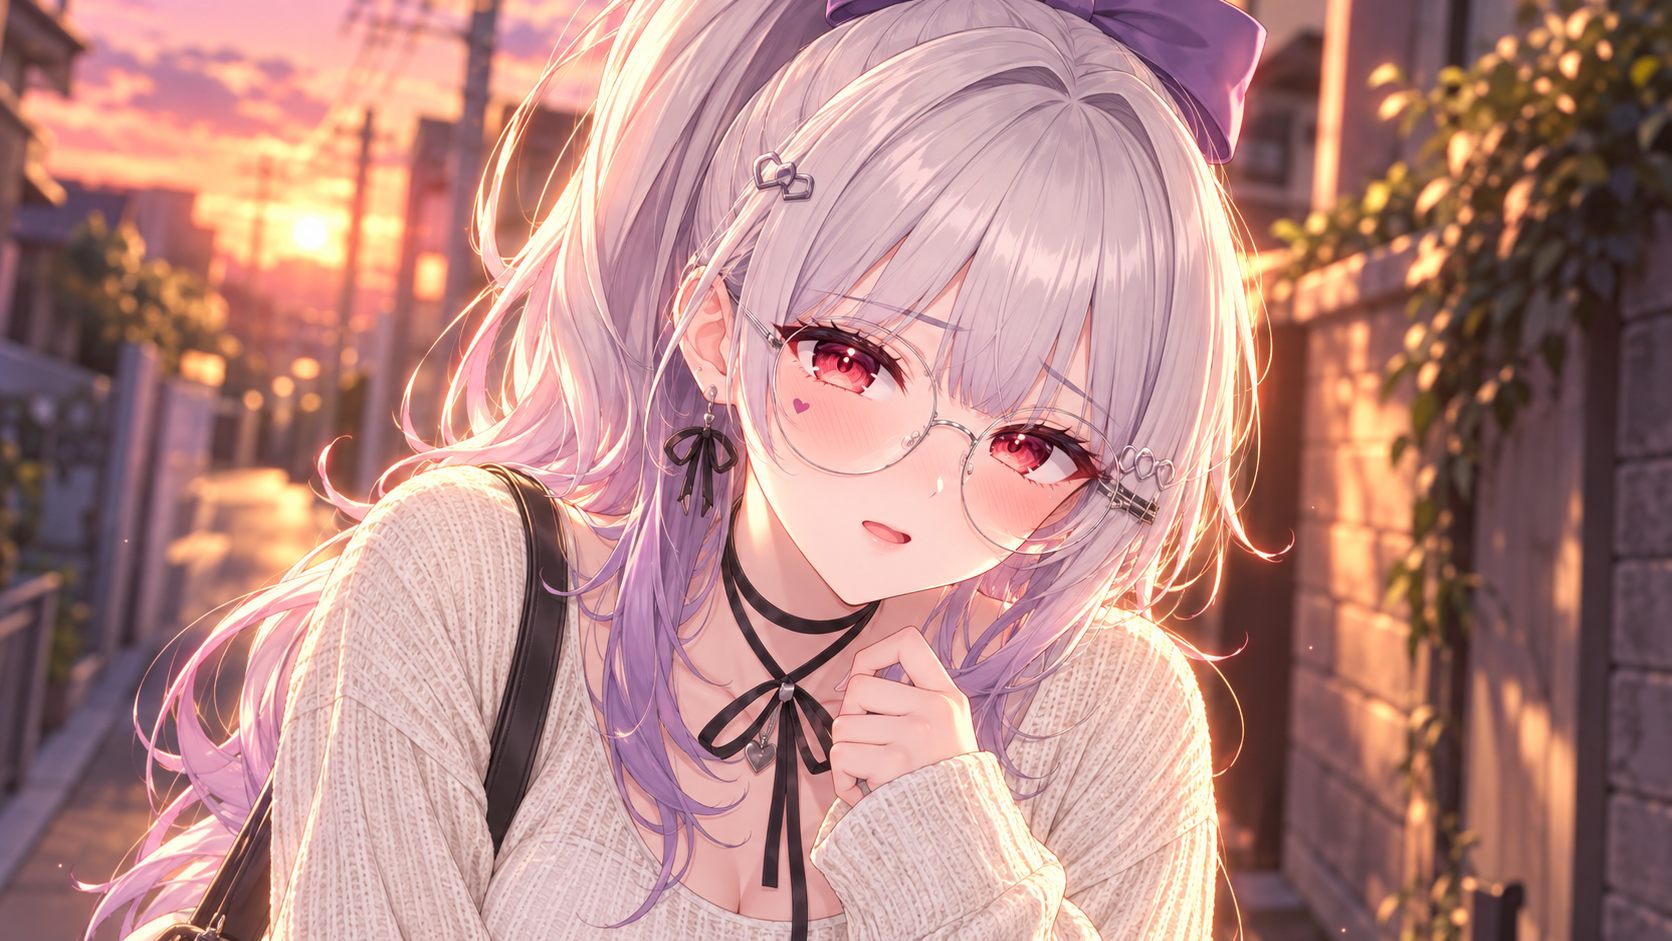
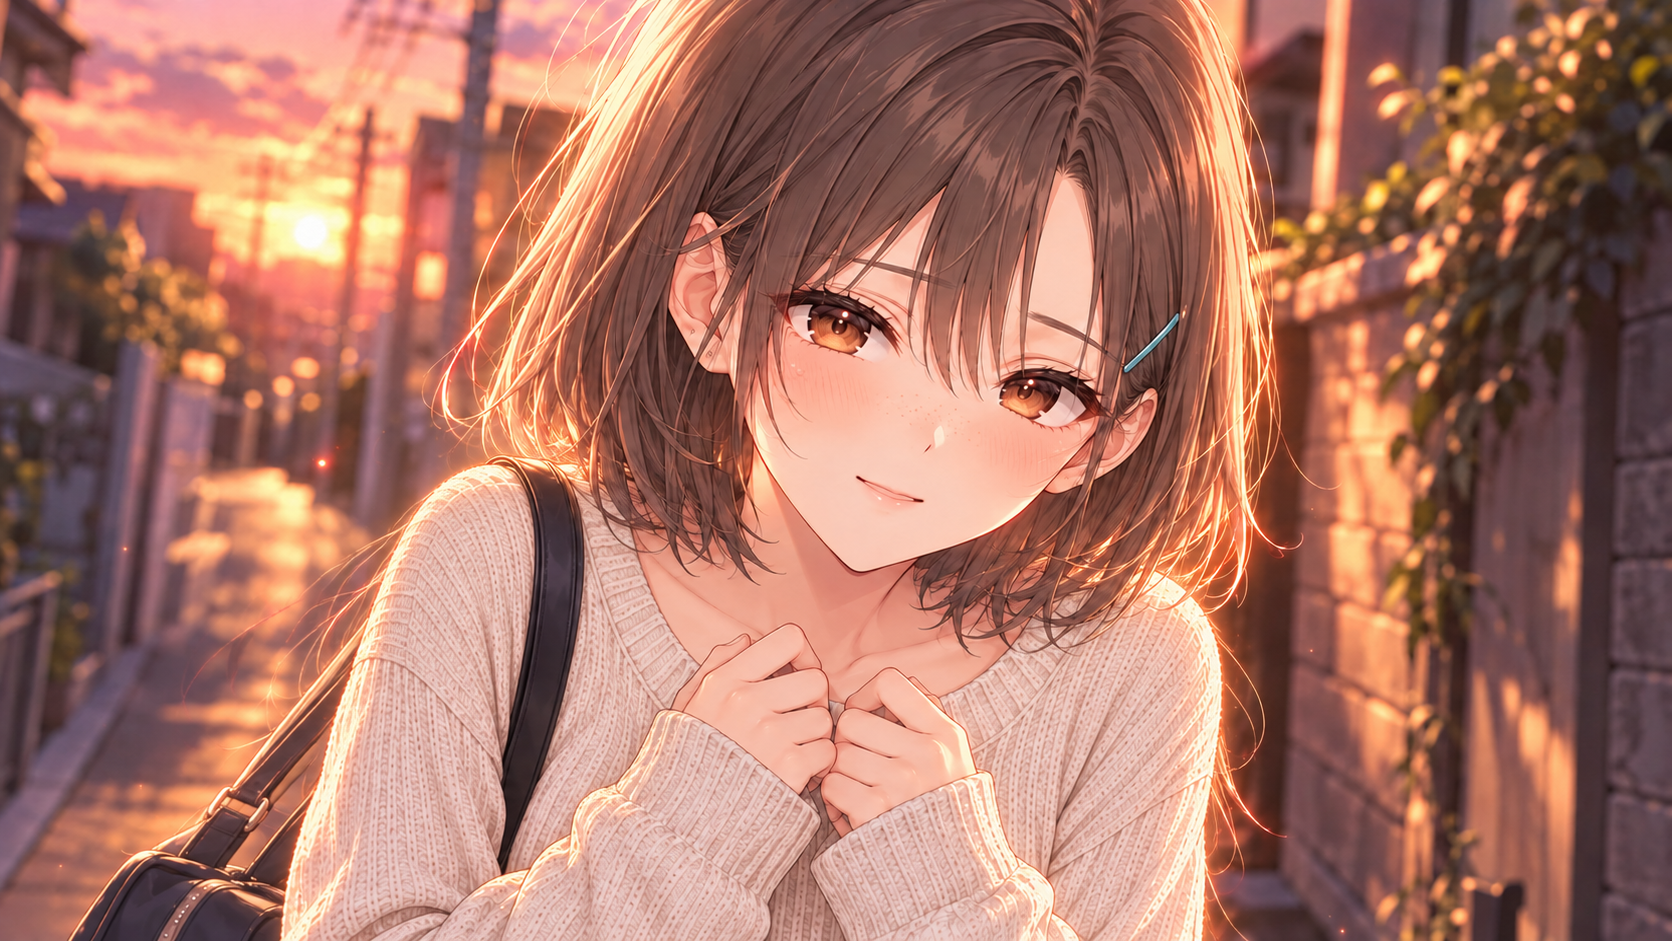
CH13 꾸민 의상 CG 교체

diff --git a/docs/illustration-replacement-prompts.md b/docs/illustration-replacement-prompts.md
@@ -246,7 +246,7 @@ CG는 공통 CG 블록과 파일별 장면 프롬프트를 이어 붙인다. 무
 | [cg-13-1.png](../assets/cg/cg-13-1.png) · CH12 우연한 만남, 기본 의상 | 원본의 구도와 자세를 유지한다. 허리 위로 보이는 온이유를 왼쪽 절반에 두고, 몸을 오른쪽으로 살짝 돌린 채 밝은 표정으로 화면을 바라본다. 가방끈을 어깨에 걸고 양손으로 중앙 오른쪽의 큰 잡지를 비스듬히 들어 보여주며, 한쪽 검지는 표지를 가리킨다. 머리 옆의 작은 강조선을 살린다. 왼쪽 배경은 흐린 서가, 오른쪽은 게임 잡지와 진열 케이스가 빽빽한 매대로 구성한다. 새 캐릭터 외형과 흰 티셔츠·데님 하의를 적용하고, 표지와 상품에는 글자·로고·인물 초상 없이 가상의 풍경 그래픽만 넣는다. |
 | [cg-13-2.png](../assets/cg/cg-13-2.png) · CH12 우연한 만남, 꾸민 의상 | 원본의 구도와 자세를 유지한다. 허리 위로 보이는 온이유를 화면 왼쪽 절반에 크게 두고, 몸을 오른쪽으로 살짝 돌린 채 밝은 표정으로 바라본다. 중앙 오른쪽에는 크게 비스듬히 세운 잡지를 두고 양손으로 받친다. 한 손은 잡지의 왼쪽 아래를 받치며 표지를 가리키고, 다른 손은 오른쪽 가장자리를 잡는다. 화면 아래 왼쪽에는 은색 체인 장식이 달린 검정 가방을 둔다. 왼쪽은 흐린 서가, 오른쪽은 게임 잡지와 진열 케이스가 빽빽한 매대인 서점 배경을 유지한다. 새 캐릭터 외형에 짧은 검정 데님 재킷과 단정한 검정 상의를 적용한다. 잡지 표지에는 인물이나 읽을 수 있는 글자·로고 없이 가상의 풍경 그래픽만 넣는다. |
 | [cg-14-1.png](../assets/cg/cg-14-1.png) · CH13 첫 데이트, 기본 의상 | 원본의 구도와 자세를 유지한다. 해질녘 산책길을 배경으로 온이유의 얼굴과 상체를 화면 왼쪽과 중앙에 크게 담는 근접 시점을 쓴다. 상체는 카메라 쪽으로 살짝 기울고 어깨는 비스듬히 돌리며, 고개를 살짝 기울여 카메라를 바라본다. 한쪽 팔꿈치를 굽혀 손을 관자놀이 옆에 가볍게 대고, 수줍고 따뜻한 미소와 옅은 홍조를 보인다. 오른쪽에는 난간을 따라 멀어지는 산책길과 낮은 주황빛 해, 왼쪽에는 흐릿한 나무와 노을 보케를 둔다. 새 캐릭터 외형에 몸에 자연스럽게 맞는 연베이지 가디건과 불투명한 차콜색 크루넥 상의를 입힌다. 어깨와 가슴을 드러내지 않고, 손가락은 서로 분리된 자연스러운 형태로 표현한다. |
-| [cg-14-2.png](../assets/cg/cg-14-2.png) · CH13 첫 데이트, 꾸민 의상 | 크림색 니트와 단정한 스커트 차림의 온이유가 봄 저녁 산책길에서 수줍게 웃는다. 같은 첫 데이트 감정선을 유지하되 포즈와 카메라 구도는 독립적으로 만든다. |
+| [cg-14-2.png](../assets/cg/cg-14-2.png) · CH13 첫 데이트, 꾸민 의상 | 원본의 구도와 자세를 유지한다. 해질녘 산책길을 배경으로 온이유를 화면 중앙에 크게 담는 근접 상반신 시점이다. 몸을 카메라 쪽으로 살짝 기울이고 어깨는 비스듬히 두며, 고개를 부드럽게 기울여 카메라를 바라본다. 양손은 가슴 위쪽에 모아 니트 목선을 가볍게 잡고, 수줍은 미소와 옅은 홍조를 보인다. 왼쪽 어깨에는 검정 가방끈이 걸리고 가방 일부가 화면 아래 왼쪽에 보인다. 낮은 주황빛 해는 왼쪽 위, 오른쪽에는 산책길·건물·나무가 흐릿하게 이어지는 원본 배경 배치를 살린다. 새 캐릭터 외형과 크림색 니트, 프레임 아래에 보일 경우 단정한 스커트를 적용한다. 어깨 폭은 좁고 자연스럽게 기울이며, 니트는 어깨에서 부해 보이지 않게 한다. 손가락이 서로 붙거나 합쳐지지 않도록 자연스럽게 구분한다. 글자·로고는 넣지 않는다. |
 | [cg-15.png](../assets/cg/cg-15.png) · CH14 축제 준비 | 가을 저녁 학교 미술 전시 부스 준비 현장, 교복 차림의 온이유가 캔버스와 전시물을 정리하다 잠시 작품을 바라본다. 아직 한산한 축제 공간에 따뜻한 전구가 켜지기 시작한다. |
 | [cg-16.png](../assets/cg/cg-16.png) · CH15 축제 당일 | 학교 축제의 미술 전시 공간, 온이유가 방문객에게 작품을 소개하고 고개를 살짝 숙여 인사한다. 주변에는 그림과 관람객의 흐릿한 실루엣, 축제 조명이 밝고 생기 있게 번진다. |
 | [cg-17-1.png](../assets/cg/cg-17-1.png) · CH16 크리스마스, 기본 의상 | 크리스마스 장식이 있는 작은 카페, 검정 패딩과 연베이지 목도리를 두른 온이유가 테이블 게임을 하며 상대 손을 잡고 웃는다. 테이블의 조명과 트리 전구가 따뜻한 분위기를 만든다. |
@@ -277,4 +277,4 @@ CG는 공통 CG 블록과 파일별 장면 프롬프트를 이어 붙인다. 무
 - 이미지 모델이 만든 문자·로고·워터마크는 제거하고, 필요한 문구는 별도로 편집한다.
 - 인물 외형 참조에는 승인된 공통 캐릭터 기준 이미지만 사용한다. 사용자가 특정 의상 참고 이미지를 제공한 경우에는 지정된 의상 형태만 참고하고 얼굴·머리·포즈·배경은 복사하지 않는다. 결과가 새 공통 캐릭터 기준과 다르면 해당 파일을 다시 생성한다.
 
-이 문서는 교체 대상의 프롬프트와 파일 대응표다. S·W·G·A·C1·P1·C13·P13·C16·P16·C24·P24·GR 스탠딩 세트와 타이틀 표지, cg-01~cg-12, cg-13-1~cg-13-2 및 cg-14-1의 생성·교체를 완료했으며, 나머지 CG는 한 장씩 진행한다.
+이 문서는 교체 대상의 프롬프트와 파일 대응표다. S·W·G·A·C1·P1·C13·P13·C16·P16·C24·P24·GR 스탠딩 세트와 타이틀 표지, cg-01~cg-12, cg-13-1~cg-13-2 및 cg-14-1~cg-14-2의 생성·교체를 완료했으며, 나머지 CG는 한 장씩 진행한다.
